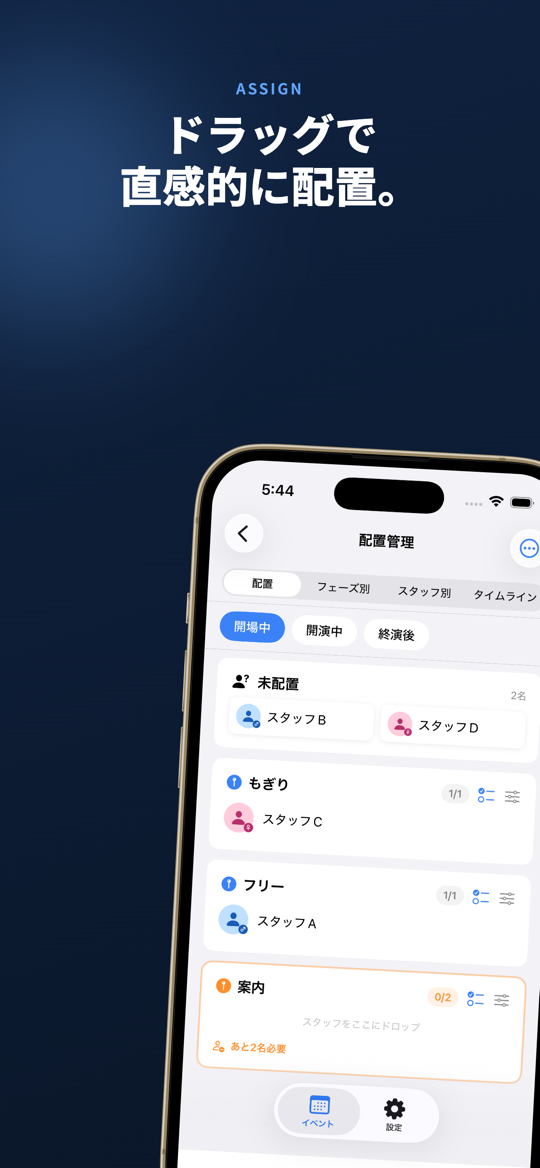
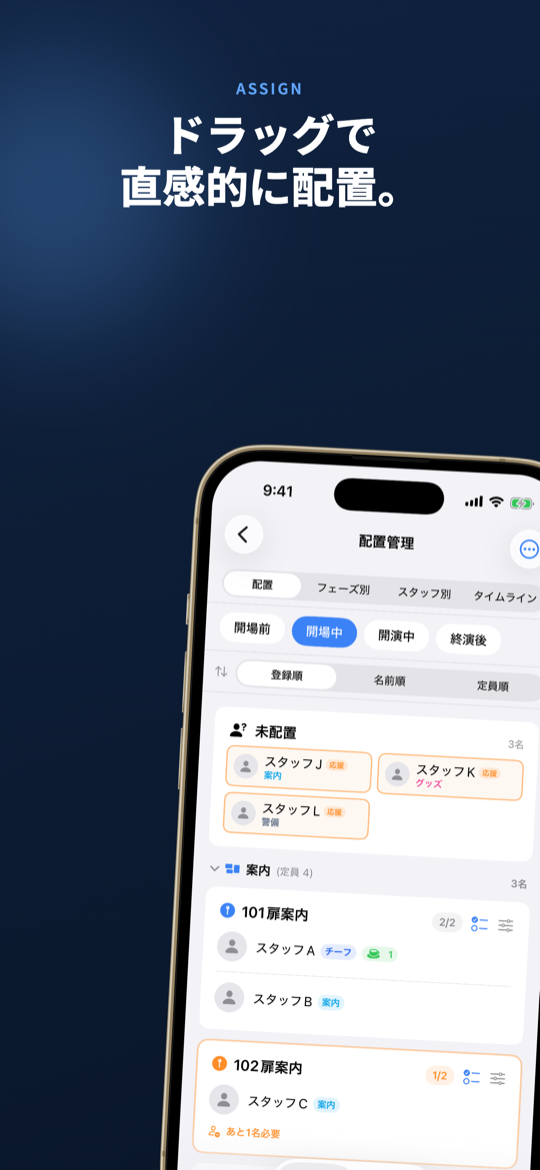
LP の画面を撮り直したスライドに差し替える
載っていたのは App Store の 2026-05 のスクリーンショットで、検証用データの
ままだった。うち export は見出しと中身（スタッフ別配置の画面）が食い違っており、
figcaption とも合っていなかった。

原本は CrewBoard-App の docs/。6 枚に差し替え、figcaption は外した。

diff --git a/index.html b/index.html
@@ -9,7 +9,7 @@
 <meta property="og:type" content="website">
 <meta property="og:title" content="CrewBoard — イベント現場の配置表を、チーム全員で">
 <meta property="og:description" content="前日に作った配置表は、当日いちばん変わる。その変更を、現場の全員に届けます。">
-<meta property="og:image" content="img/hero.png">
+<meta property="og:image" content="img/share.png">
 <style>
 :root {
     --bg: #fbfaf8;
@@ -184,7 +184,6 @@ header {
 }
 .gallery figure { flex: 0 0 auto; width: 206px; scroll-snap-align: start; }
 .gallery img { width: 100%; display: block; border-radius: 10px; }
-.gallery figcaption { font-size: .76rem; color: var(--band-sub); margin-top: 10px; letter-spacing: .06em; }
 
 /* ── 料金 ── */
 table.price { width: 100%; border-collapse: collapse; font-size: .88rem; }
@@ -336,10 +335,12 @@ footer nav a:hover { color: var(--ink); }
         <div class="label">Screens</div>
         <h2>画面</h2>
         <div class="gallery">
-            <figure><img src="img/hero.png" alt="イベント一覧" loading="lazy"><figcaption>イベント一覧</figcaption></figure>
-            <figure><img src="img/assign.png" alt="配置管理" loading="lazy"><figcaption>配置管理</figcaption></figure>
-            <figure><img src="img/timeline.png" alt="タイムライン" loading="lazy"><figcaption>タイムライン</figcaption></figure>
-            <figure><img src="img/export.png" alt="画像書き出し" loading="lazy"><figcaption>画像書き出し</figcaption></figure>
+            <figure><img src="img/share.png" alt="チームで共有する画面" loading="lazy"></figure>
+            <figure><img src="img/assign.png" alt="配置管理の画面" loading="lazy"></figure>
+            <figure><img src="img/staff.png" alt="スタッフ別の配置を見る画面" loading="lazy"></figure>
+            <figure><img src="img/timeline.png" alt="タイムラインの画面" loading="lazy"></figure>
+            <figure><img src="img/overview.png" alt="フェーズ別の配置を見る画面" loading="lazy"></figure>
+            <figure><img src="img/detail.png" alt="イベント情報の画面" loading="lazy"></figure>
         </div>
     </div>
 </section>
